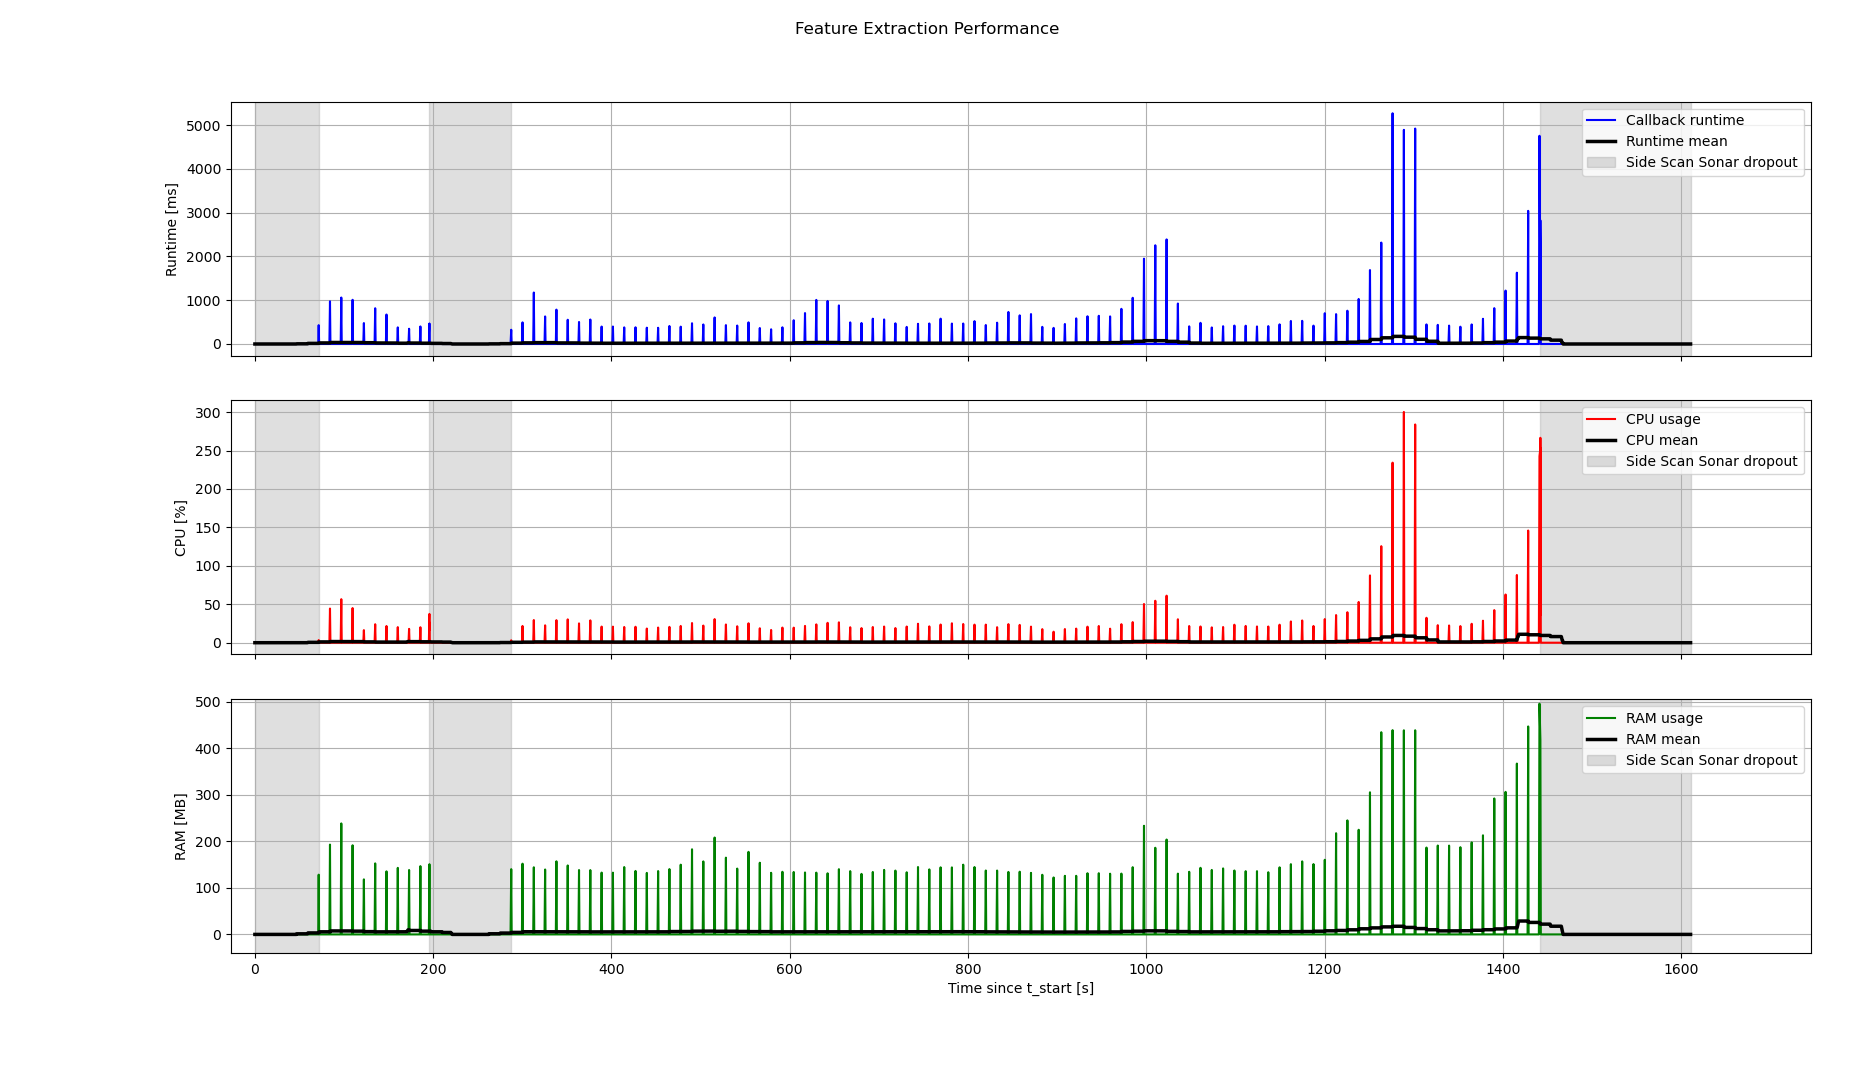
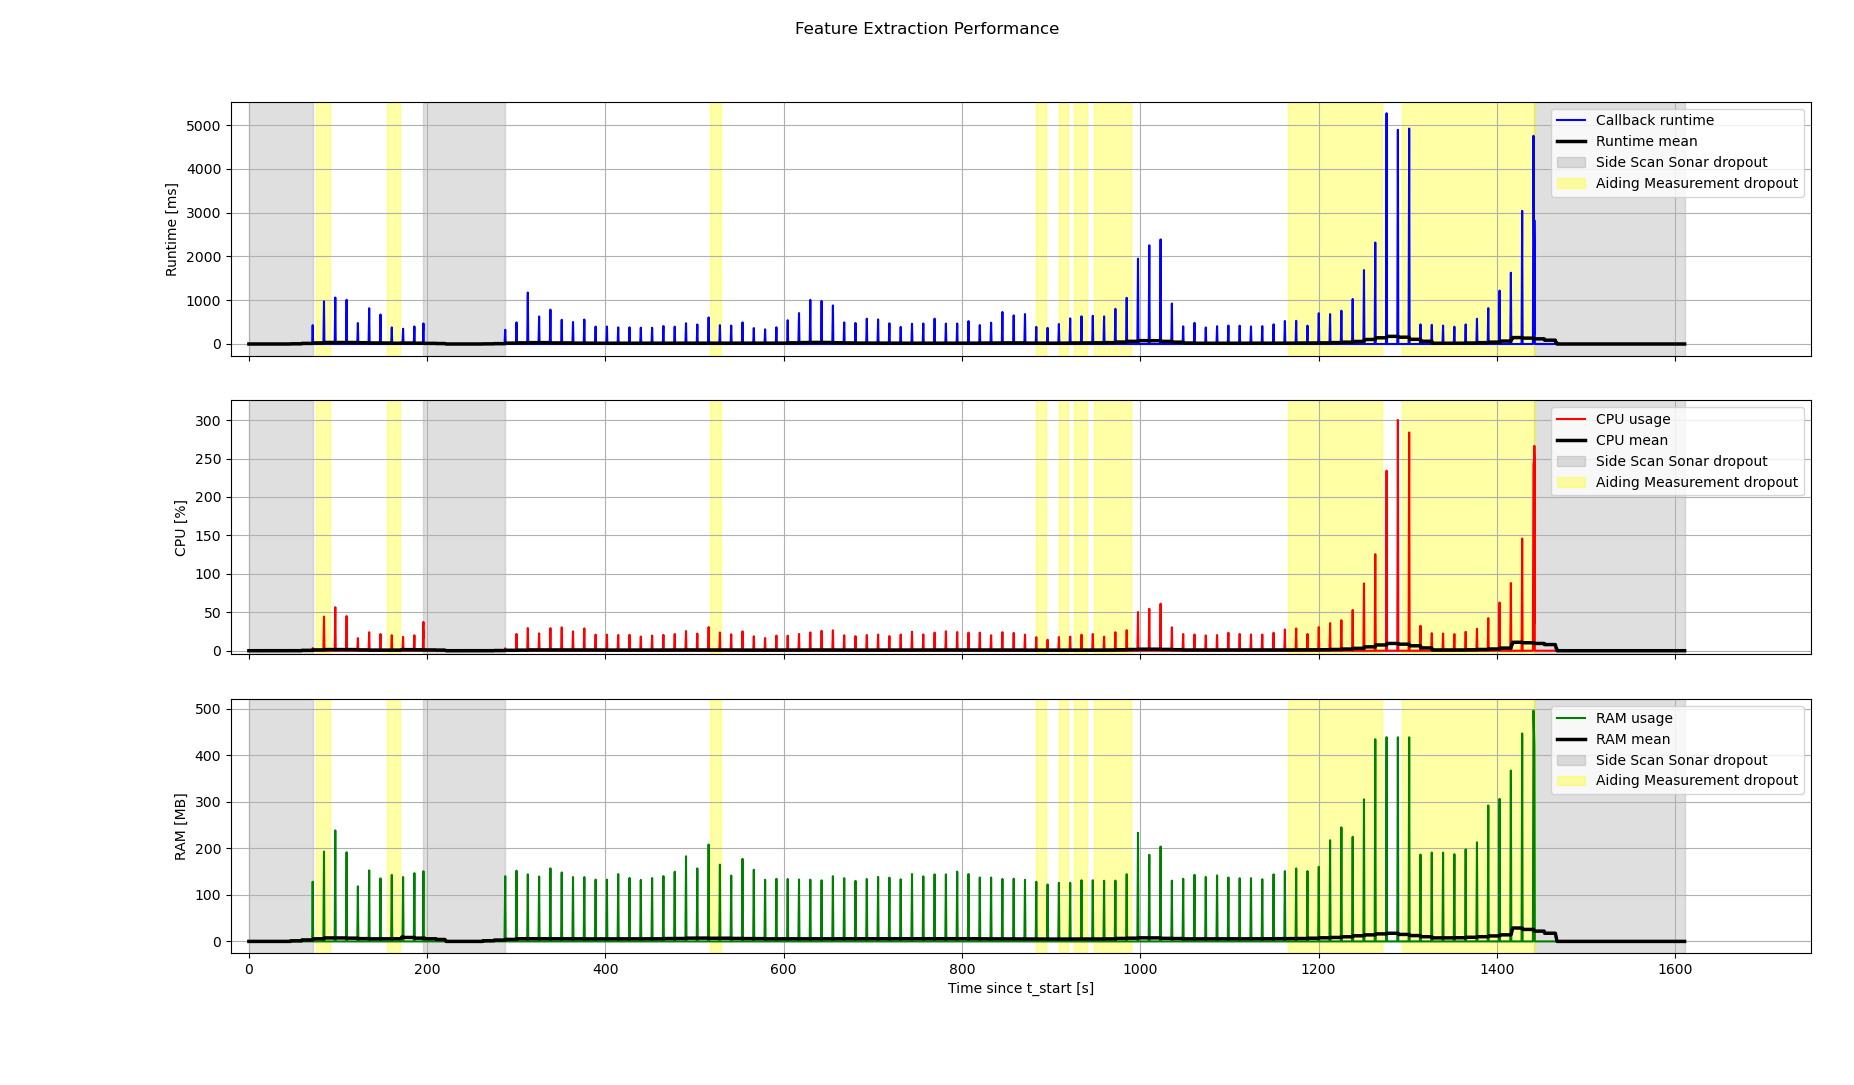
minor changes to plotting for more clarity jesjes

Changed region(s): [[0.0922, 0.6387, 0.9838, 0.9124], [0.0922, 0.365, 0.9838, 0.6083], [0.123, 0.0912, 0.9838, 0.3346]]

diff --git a/src/sss_data_processing/local_map_generator/logs/plot_performance.py b/src/sss_data_processing/local_map_generator/logs/plot_performance.py
@@ -5,6 +5,7 @@ from utils import (
     get_newest_file,
     load_csv,
     build_performance_timeline,
+    build_aiding_timeline,
     create_stacked_plot,
     add_series,
     add_sliding_mean,
@@ -78,7 +79,7 @@ def main():
         t_start = df["t"].iloc[0]
         t_stop = df["t"].iloc[-1]
 
-    gap_threshold = 5.0
+    gap_threshold = 30.0
     zero_dt = 0.5
 
     df, dropout_spans, zero_dt = build_performance_timeline(
@@ -88,6 +89,27 @@ def main():
         gap_threshold=gap_threshold,
         zero_dt=zero_dt,
     )
+
+    # Optional aiding dropout overlay.
+    # This depends on whether state estimator aiding/NIS logs were recorded/exported.
+    # Not required for the performance plot, only useful for extra debugging context.
+    dropout_spans_aiding = []
+
+    try:
+        AIDING_DIR = os.path.join(os.path.dirname(__file__), "../../state_estimator/logs/data")
+        aiding_file = get_newest_file(AIDING_DIR, "nis_dvl")
+        gap_threshold_aiding = 10.0
+
+        dropout_spans_aiding = build_aiding_timeline(
+            df=df,
+            df_aiding=aiding_file,
+            t_start=t_start,
+            t_stop=t_stop,
+            gap_threshold_aiding=gap_threshold_aiding,
+            gap_threshold_main=gap_threshold,
+        )
+    except (FileNotFoundError, ValueError, KeyError):
+        pass
 
     runtime_ms = df["runtime_s"].values * 1e3
     cpu = df["cpu_percent"].values
@@ -103,14 +125,17 @@ def main():
     add_series(axes[0], df["t_rel"], runtime_ms, label="Callback runtime", color="blue")
     add_sliding_mean(axes[0], df["t_rel"], runtime_ms, window=100, color="black", label="Runtime mean")
     add_dropout_spans(axes[0], dropout_spans, t_ref=t_start)
+    add_dropout_spans(axes[0], dropout_spans_aiding, t_ref=t_start, color="yellow", alpha=0.35, label="Aiding Measurement dropout")    
 
     add_series(axes[1], df["t_rel"], cpu, label="CPU usage", color="red")
     add_sliding_mean(axes[1], df["t_rel"], cpu, window=100, color="black", label="CPU mean")
     add_dropout_spans(axes[1], dropout_spans, t_ref=t_start)
+    add_dropout_spans(axes[1], dropout_spans_aiding, t_ref=t_start, color="yellow", alpha=0.35, label="Aiding Measurement dropout")  
 
     add_series(axes[2], df["t_rel"], ram, label="RAM usage", color="green")
     add_sliding_mean(axes[2], df["t_rel"], ram, window=100, color="black", label="RAM mean")
     add_dropout_spans(axes[2], dropout_spans, t_ref=t_start)
+    add_dropout_spans(axes[2], dropout_spans_aiding, t_ref=t_start, color="yellow", alpha=0.35, label="Aiding Measurement dropout")  
 
     finalize_plot()
     # Map Generation (STOP) --------------------------------------------------
@@ -140,6 +165,27 @@ def main():
         zero_dt=0.5,
     )
 
+    # Optional aiding dropout overlay.
+    # This depends on whether state estimator aiding/NIS logs were recorded/exported.
+    # Not required for the performance plot, only useful for extra debugging context.
+    dropout_spans_aiding = []
+
+    try:
+        AIDING_DIR = os.path.join(os.path.dirname(__file__), "../../state_estimator/logs/data")
+        aiding_file = get_newest_file(AIDING_DIR, "nis_dvl")
+        gap_threshold_aiding = 10.0
+
+        dropout_spans_aiding = build_aiding_timeline(
+            df=df,
+            df_aiding=aiding_file,
+            t_start=t_start,
+            t_stop=t_stop,
+            gap_threshold_aiding=gap_threshold_aiding,
+            gap_threshold_main=gap_threshold,
+        )
+    except (FileNotFoundError, ValueError, KeyError):
+        pass
+
     runtime_ms = df["runtime_s"].values * 1e3
     cpu = df["cpu_percent"].values
     ram = df["ram_mb"].values
@@ -154,14 +200,17 @@ def main():
     add_series(axes[0], df["t_rel"], runtime_ms, label="Callback runtime", color="blue")
     add_sliding_mean(axes[0], df["t_rel"], runtime_ms, window=100, color="black", label="Runtime mean")
     add_dropout_spans(axes[0], dropout_spans, t_ref=t_start)
+    add_dropout_spans(axes[0], dropout_spans_aiding, t_ref=t_start, color="yellow", alpha=0.35, label="Aiding Measurement dropout") 
 
     add_series(axes[1], df["t_rel"], cpu, label="CPU usage", color="red")
     add_sliding_mean(axes[1], df["t_rel"], cpu, window=100, color="black", label="CPU mean")
     add_dropout_spans(axes[1], dropout_spans, t_ref=t_start)
+    add_dropout_spans(axes[1], dropout_spans_aiding, t_ref=t_start, color="yellow", alpha=0.35, label="Aiding Measurement dropout") 
 
     add_series(axes[2], df["t_rel"], ram, label="RAM usage", color="green")
     add_sliding_mean(axes[2], df["t_rel"], ram, window=100, color="black", label="RAM mean")
     add_dropout_spans(axes[2], dropout_spans, t_ref=t_start)
+    add_dropout_spans(axes[2], dropout_spans_aiding, t_ref=t_start, color="yellow", alpha=0.35, label="Aiding Measurement dropout") 
 
     finalize_plot()
     # Feature Extraction (STOP) --------------------------------------------------

diff --git a/src/sss_data_processing/local_map_generator/logs/utils.py b/src/sss_data_processing/local_map_generator/logs/utils.py
@@ -133,6 +133,86 @@ def build_performance_timeline(
 
     return out, dropout_spans, zero_dt
 
+def build_aiding_timeline(
+    df,
+    df_aiding,
+    t_start,
+    t_stop,
+    gap_threshold_aiding=5.0,
+    gap_threshold_main=5.0,
+    dt=0.5,
+):
+    if isinstance(df_aiding, str):
+        df_aiding = load_csv(df_aiding)
+
+    df = df.copy().sort_values("t").reset_index(drop=True)
+    df_aiding = df_aiding.copy().sort_values("t").reset_index(drop=True)
+
+    # IMPORTANT: remove artificial zero-fill rows from build_performance_timeline()
+    if "is_artificial" in df.columns:
+        df = df[df["is_artificial"] == False].reset_index(drop=True)
+
+    df = df[(df["t"] >= t_start) & (df["t"] <= t_stop)].reset_index(drop=True)
+    df_aiding = df_aiding[(df_aiding["t"] >= t_start) & (df_aiding["t"] <= t_stop)].reset_index(drop=True)
+
+    t_grid = np.arange(t_start, t_stop + dt, dt)
+
+    aiding_active = np.zeros(len(t_grid), dtype=bool)
+    main_active = np.zeros(len(t_grid), dtype=bool)
+
+    for t in df_aiding["t"].to_numpy():
+        i = int(round((t - t_start) / dt))
+        if 0 <= i < len(aiding_active):
+            aiding_active[i] = True
+
+    for t in df["t"].to_numpy():
+        i = int(round((t - t_start) / dt))
+        if 0 <= i < len(main_active):
+            main_active[i] = True
+
+    aiding_active = _expand_activity(t_grid, aiding_active, gap_threshold_aiding)
+    main_active = _expand_activity(t_grid, main_active, gap_threshold_main)
+
+    # sonar inactive => pretend aiding is available
+    aiding_active[~main_active] = True
+
+    aiding_inactive = ~aiding_active
+
+    spans = []
+    in_span = False
+    span_start = None
+
+    for i, inactive in enumerate(aiding_inactive):
+        if inactive and not in_span:
+            span_start = t_grid[i]
+            in_span = True
+        elif not inactive and in_span:
+            spans.append((span_start, t_grid[i]))
+            in_span = False
+
+    if in_span:
+        spans.append((span_start, t_grid[-1]))
+
+    return spans
+
+def _expand_activity(t_grid, raw_active, gap_threshold):
+    active = np.zeros_like(raw_active, dtype=bool)
+    active_indices = np.where(raw_active)[0]
+
+    if len(active_indices) == 0:
+        return active
+
+    for i0, i1 in zip(active_indices[:-1], active_indices[1:]):
+        t0 = t_grid[i0]
+        t1 = t_grid[i1]
+
+        if t1 - t0 <= gap_threshold:
+            active[i0:i1 + 1] = True
+
+    active[active_indices] = True
+
+    return active
+
 # PLOT HELPERS ----------
 def finalize_plot():
     for ax in plt.gcf().axes:
